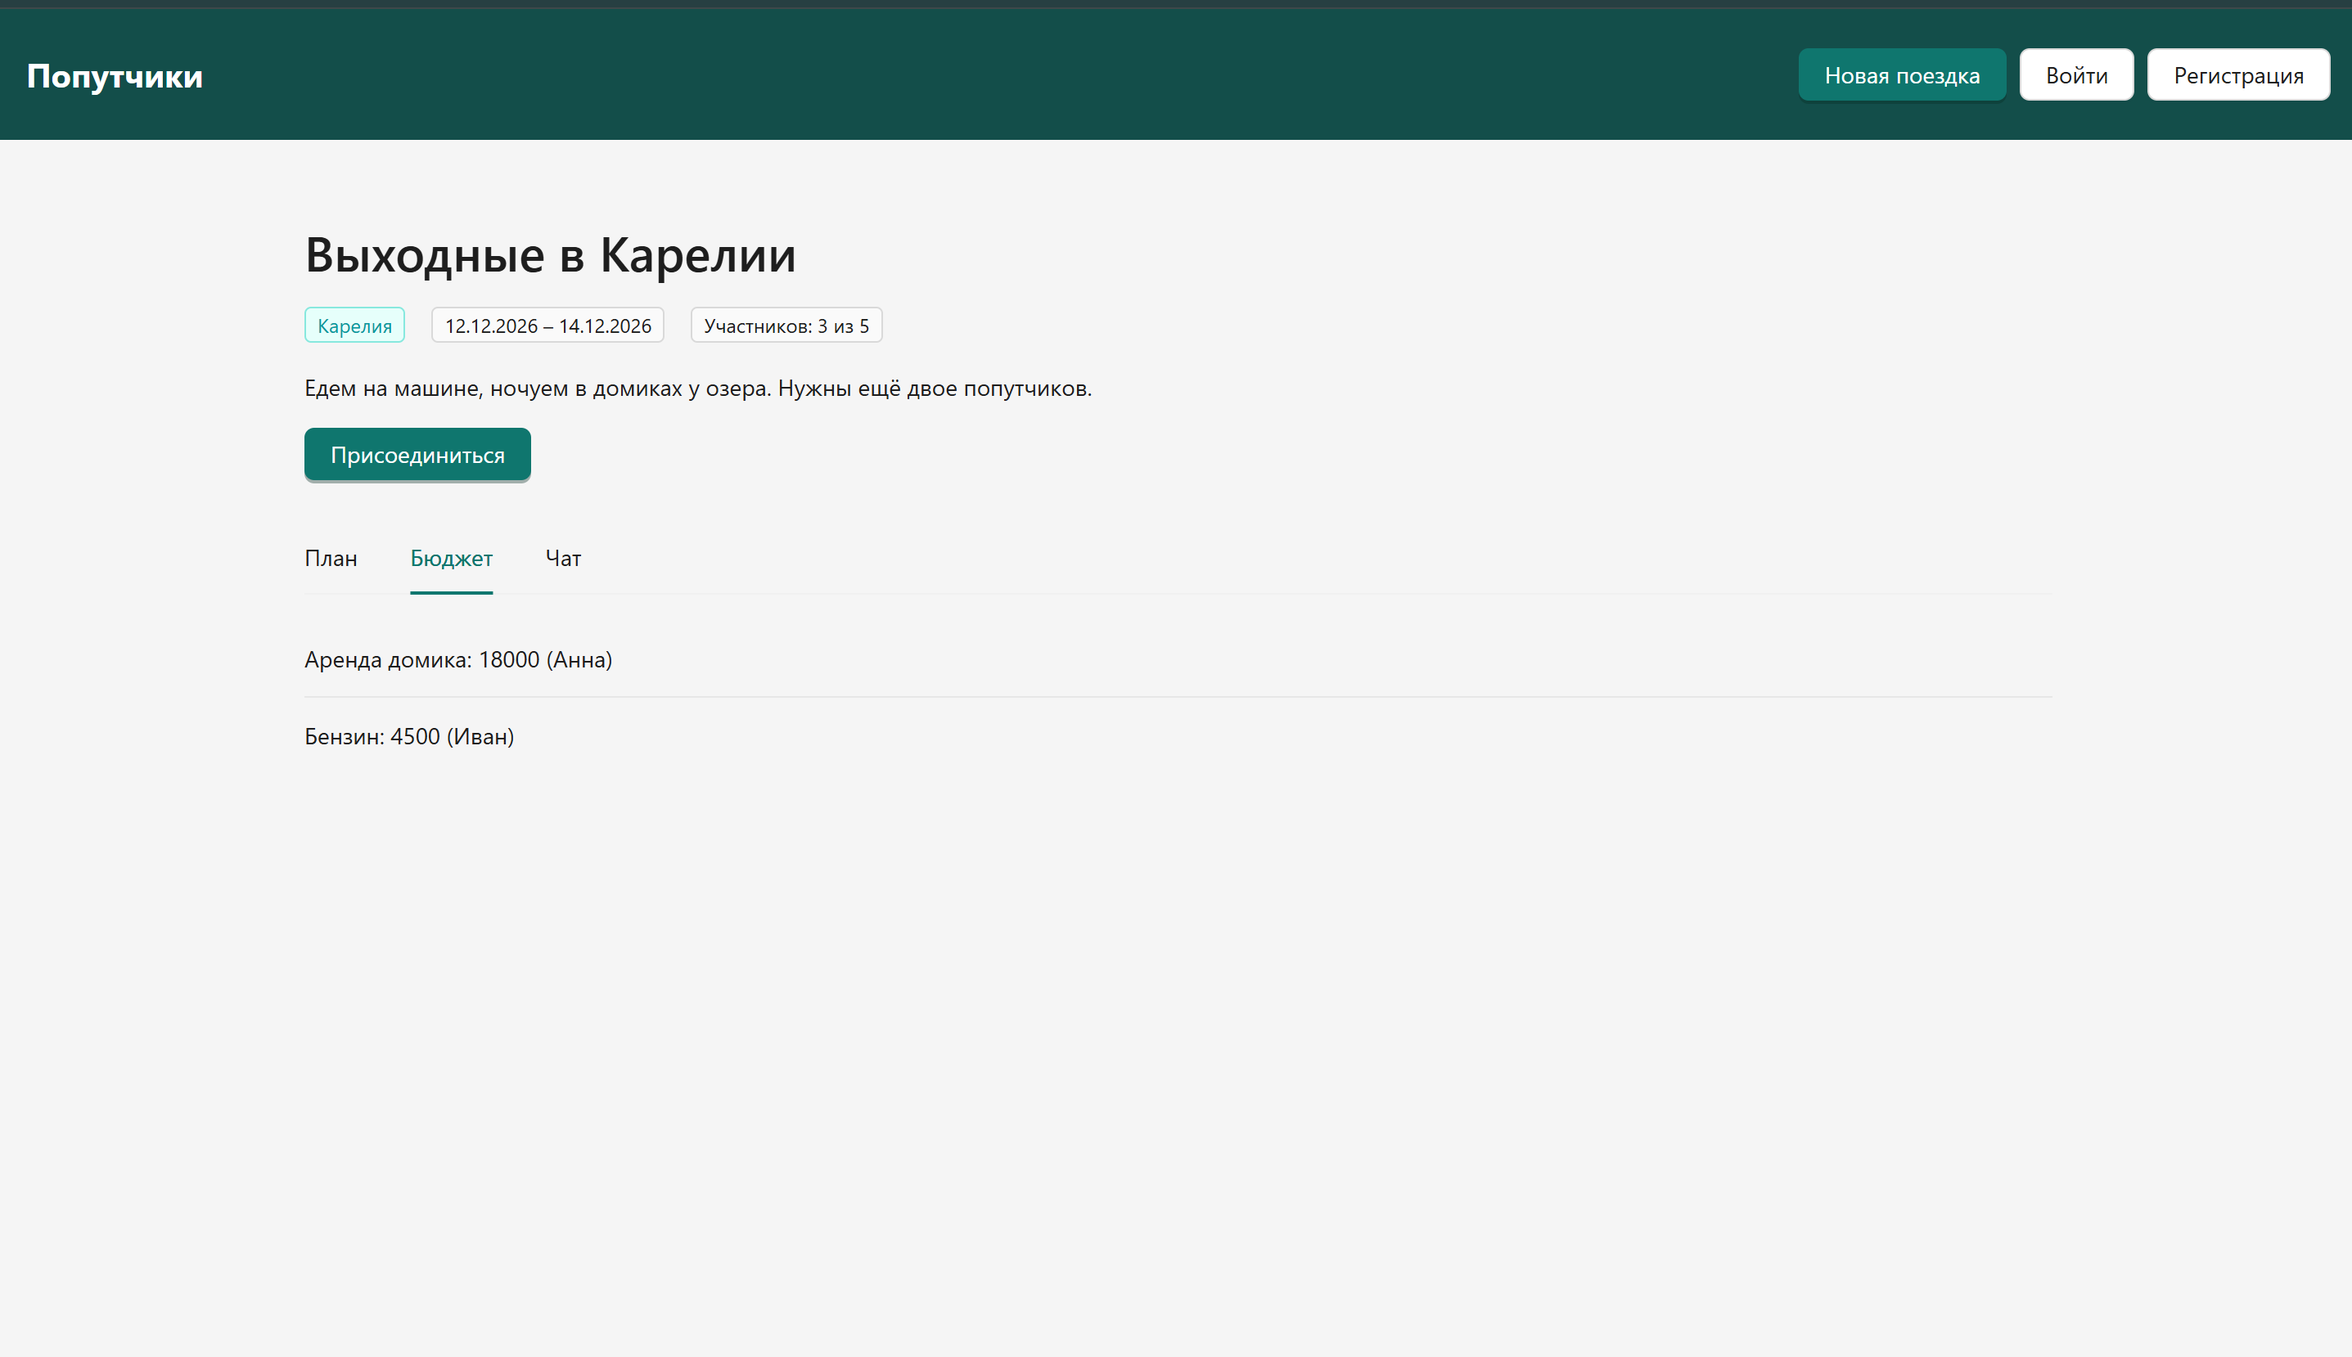
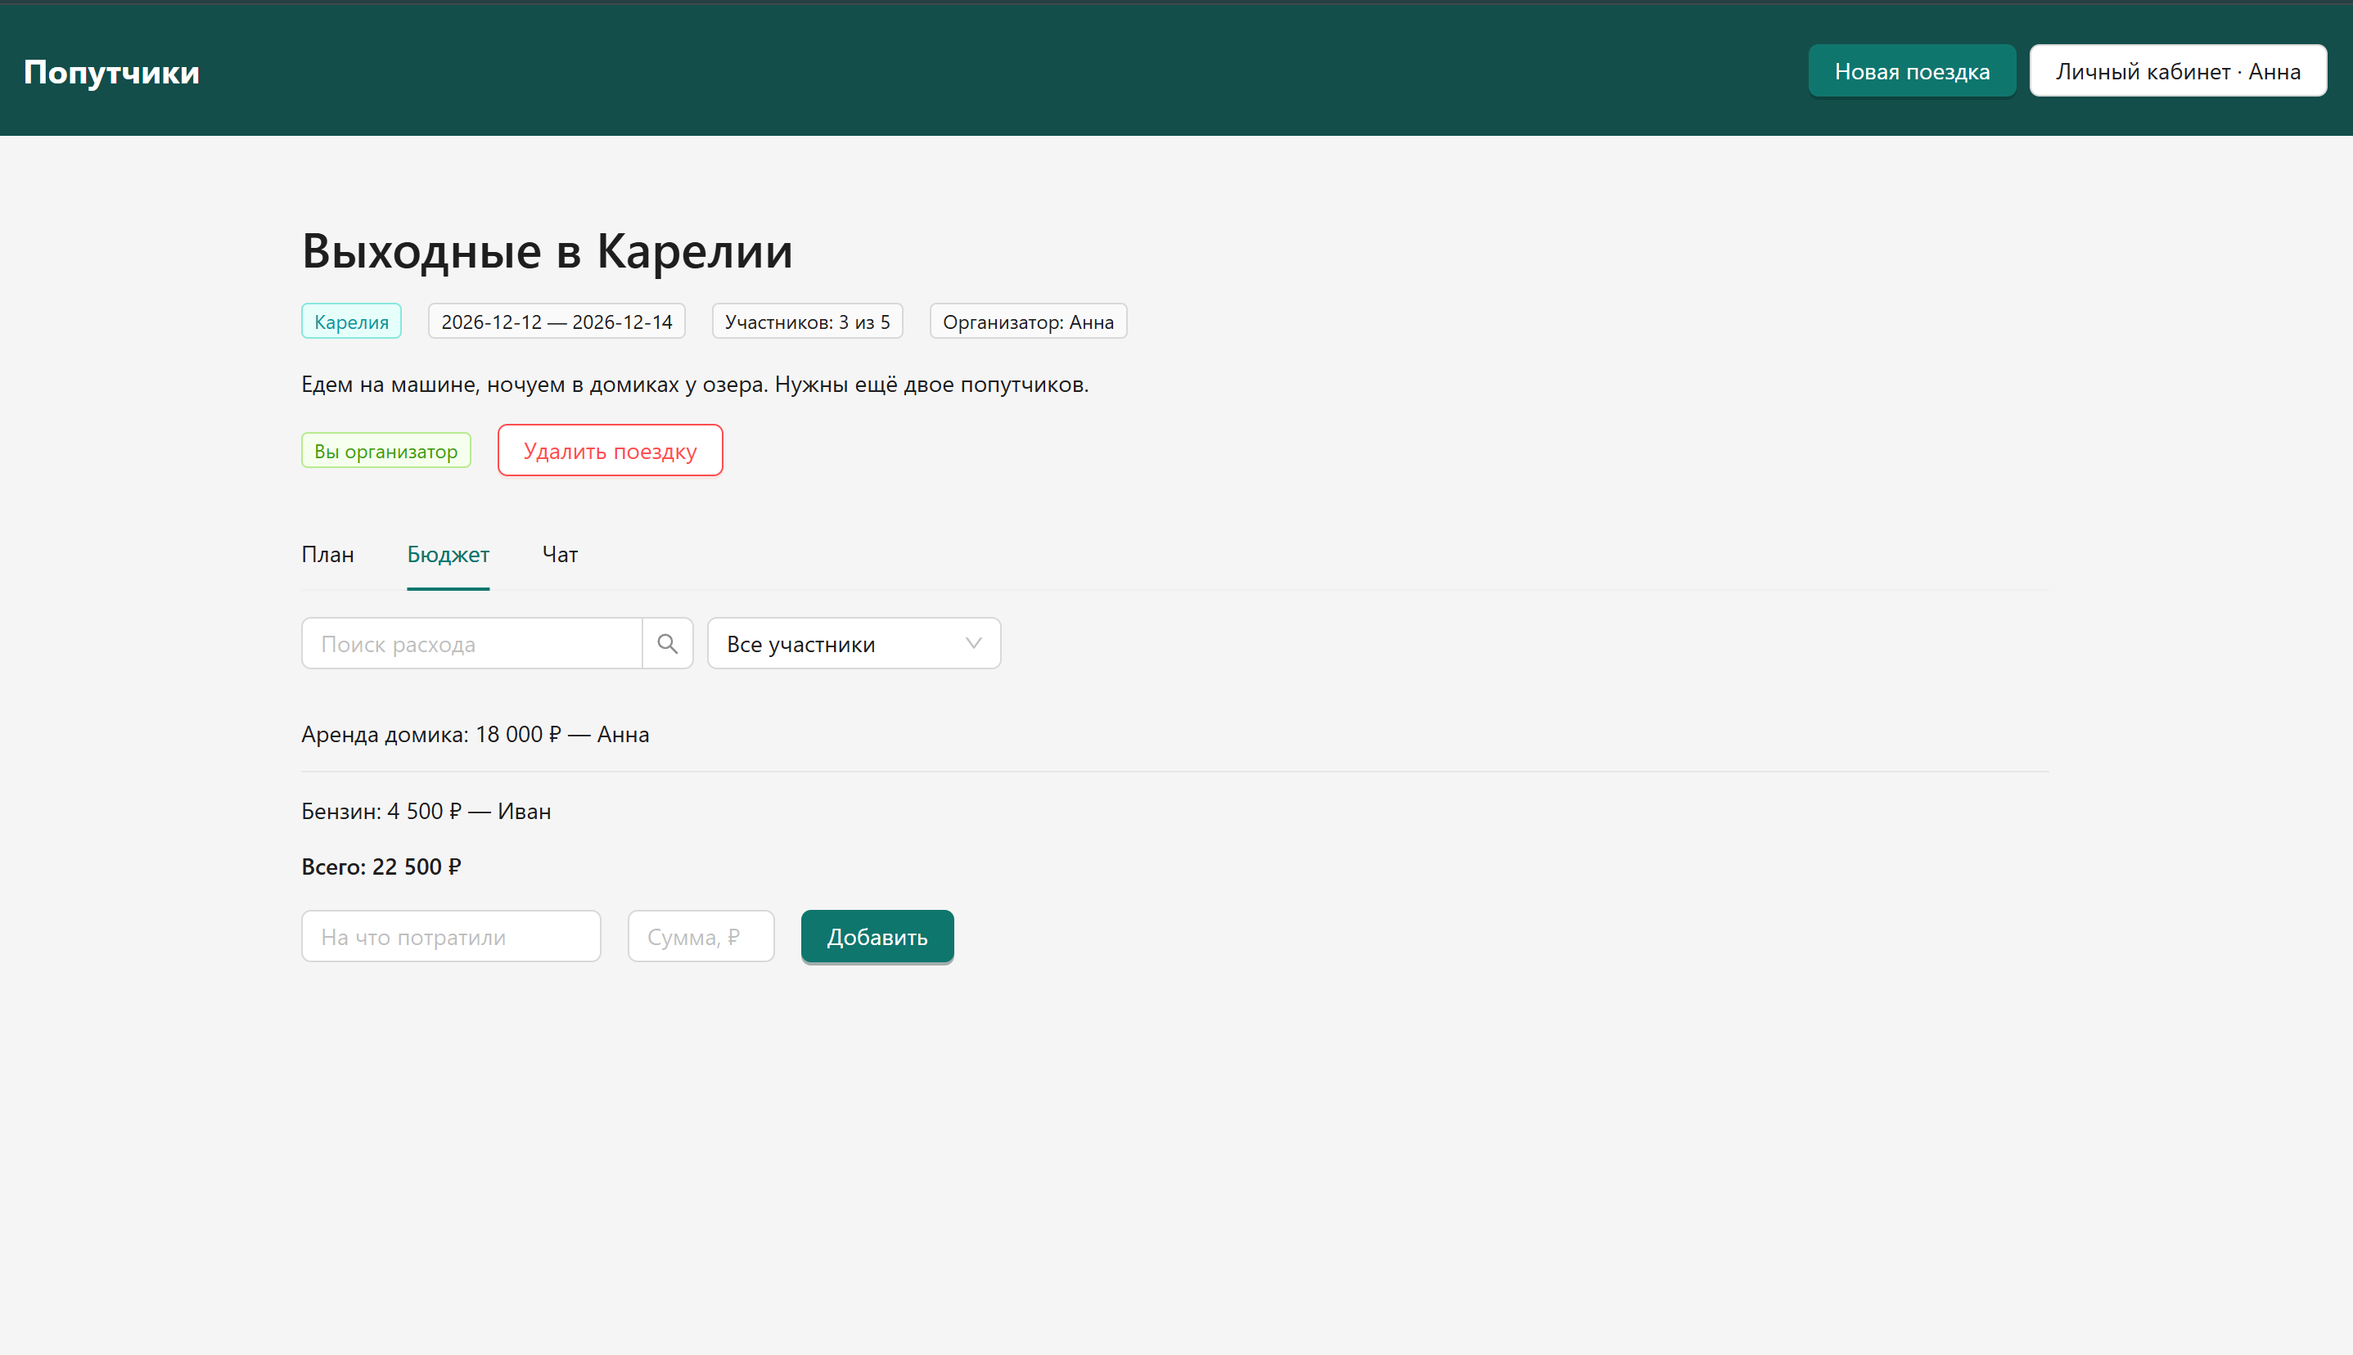
Добавлены фильтры и управление поездками

diff --git a/frontend/src/pages/TripPage.tsx b/frontend/src/pages/TripPage.tsx
@@ -1,77 +1,135 @@
-import { Button, Input, List, Space, Tabs, Tag, Typography } from 'antd'
-import { useParams } from 'react-router-dom'
-import { expenses, messages, plan, trips } from '../shared/demoData'
+import { useState } from 'react'
+import { Alert, Button, DatePicker, Empty, Form, Input, InputNumber, List, message, Popconfirm, Select, Space, Tabs, Tag, Typography } from 'antd'
+import { useNavigate, useParams } from 'react-router-dom'
+import { useTrips } from '@/app/TripsContext'
+import type { Trip } from '@/entities/trip/model'
+
+type PlanValues = { day: import('dayjs').Dayjs; title: string; note?: string }
+type ExpenseValues = { title: string; amount: number }
 
 export default function TripPage() {
   const { id } = useParams()
-  const trip = trips.find((t) => t.id === Number(id))
+  const { trips, profile, updateTrip, deleteTrip } = useTrips()
+  const navigate = useNavigate()
+  const [chatText, setChatText] = useState('')
+  const [planQuery, setPlanQuery] = useState('')
+  const [planDay, setPlanDay] = useState('all')
+  const [expenseQuery, setExpenseQuery] = useState('')
+  const [payer, setPayer] = useState('all')
+  const [chatQuery, setChatQuery] = useState('')
+  const trip = trips.find((item) => item.id === Number(id))
 
-  if (!trip) return <Typography.Title level={3}>Поездка не найдена</Typography.Title>
+  if (!trip) return <Alert type="error" showIcon message="Поездка не найдена" />
+
+  const change = (update: (current: Trip) => Trip) => updateTrip(trip.id, update)
+  const isOwner = trip.owner === profile.name
+  const isJoined = trip.joined || isOwner
+  const join = () => {
+    if (isJoined) return
+    if (trip.members >= trip.maxPeople) return message.error('Свободных мест нет')
+    change((item) => ({ ...item, members: item.members + 1, joined: true }))
+  }
+  const leave = () => {
+    if (!trip.joined || isOwner) return
+    change((item) => ({ ...item, members: Math.max(0, item.members - 1), joined: false }))
+    message.success('Вы вышли из поездки')
+  }
+  const addPlan = (values: PlanValues) => change((item) => ({ ...item, plan: [...item.plan, {
+    id: Date.now(), day: values.day.format('YYYY-MM-DD'), title: values.title.trim(), note: values.note?.trim() || '',
+  }] }))
+  const addExpense = (values: ExpenseValues) => change((item) => ({ ...item, expenses: [...item.expenses, {
+    id: Date.now(), title: values.title.trim(), amount: values.amount, who: profile.name,
+  }] }))
+  const sendMessage = () => {
+    if (!chatText.trim()) return
+    change((item) => ({ ...item, messages: [...item.messages, { id: Date.now(), who: profile.name, text: chatText.trim() }] }))
+    setChatText('')
+  }
+  const visiblePlan = trip.plan.filter((item) =>
+    `${item.title} ${item.note}`.toLowerCase().includes(planQuery.toLowerCase()) &&
+    (planDay === 'all' || item.day === planDay))
+  const payers = Array.from(new Set(trip.expenses.map((item) => item.who)))
+  const visibleExpenses = trip.expenses.filter((item) =>
+    item.title.toLowerCase().includes(expenseQuery.toLowerCase()) &&
+    (payer === 'all' || item.who === payer))
+  const visibleMessages = trip.messages.filter((item) =>
+    `${item.who} ${item.text}`.toLowerCase().includes(chatQuery.toLowerCase()))
 
   return (
-    <>
+    <div className="fade-in">
       <Typography.Title level={2}>{trip.title}</Typography.Title>
       <Space wrap style={{ marginBottom: 16 }}>
         <Tag color="cyan">{trip.destination}</Tag>
-        <Tag>{trip.dates}</Tag>
-        <Tag>
-          Участников: {trip.members} из {trip.maxPeople}
-        </Tag>
+        <Tag>{trip.startDate} — {trip.endDate}</Tag>
+        <Tag>Участников: {trip.members} из {trip.maxPeople}</Tag>
+        <Tag>Организатор: {trip.owner}</Tag>
       </Space>
       <Typography.Paragraph>{trip.description}</Typography.Paragraph>
-      <Button type="primary" style={{ marginBottom: 24 }}>
-        Присоединиться
-      </Button>
+      <Space style={{ marginBottom: 24 }}>
+        {isOwner ? <>
+          <Tag color="green">Вы организатор</Tag>
+          <Popconfirm title="Удалить поездку?" description="План, расходы и сообщения этой поездки тоже будут удалены."
+            okText="Удалить" cancelText="Отмена" okButtonProps={{ danger: true }}
+            onConfirm={() => { deleteTrip(trip.id); navigate('/') }}>
+            <Button danger>Удалить поездку</Button>
+          </Popconfirm>
+        </> : isJoined ? <Button danger onClick={leave}>Выйти из поездки</Button>
+          : <Button type="primary" onClick={join}>Присоединиться</Button>}
+      </Space>
 
-      <Tabs
-        items={[
-          {
-            key: 'plan',
-            label: 'План',
-            children: (
-              <List
-                dataSource={plan}
-                renderItem={(p) => (
-                  <List.Item>
-                    <List.Item.Meta title={`${p.day}: ${p.title}`} description={p.note} />
-                  </List.Item>
-                )}
-              />
-            ),
-          },
-          {
-            key: 'budget',
-            label: 'Бюджет',
-            children: (
-              <List
-                dataSource={expenses}
-                renderItem={(e) => (
-                  <List.Item>
-                    {e.title}: {e.amount} ({e.who})
-                  </List.Item>
-                )}
-              />
-            ),
-          },
-          {
-            key: 'chat',
-            label: 'Чат',
-            children: (
-              <>
-                <List
-                  dataSource={messages}
-                  renderItem={(m) => (
-                    <List.Item>
-                      <b>{m.who}:</b>&nbsp;{m.text}
-                    </List.Item>
-                  )}
-                />
-                <Input placeholder="Сообщение" />
-              </>
-            ),
-          },
-        ]}
-      />
-    </>
+      <Tabs items={[
+        { key: 'plan', label: 'План', children: <>
+          <Space wrap style={{ marginBottom: 16 }}>
+            <Input.Search allowClear placeholder="Поиск в плане" value={planQuery}
+              onChange={(event) => setPlanQuery(event.target.value)} style={{ width: 240 }} />
+            <Select value={planDay} onChange={setPlanDay} style={{ width: 180 }} options={[
+              { value: 'all', label: 'Все дни' }, ...Array.from(new Set(trip.plan.map((item) => item.day)))
+                .map((day) => ({ value: day, label: day })),
+            ]} />
+          </Space>
+          {visiblePlan.length ? <List dataSource={visiblePlan} renderItem={(item) => <List.Item>
+            <List.Item.Meta title={`${item.day}: ${item.title}`} description={item.note} />
+          </List.Item>} /> : <Empty description={trip.plan.length ? 'По фильтрам ничего не найдено' : 'План пока пуст'} />}
+          {isJoined && <Form layout="inline" onFinish={addPlan} style={{ marginTop: 16 }}>
+            <Form.Item name="day" rules={[{ required: true, message: 'Выберите день' }]}><DatePicker placeholder="День" /></Form.Item>
+            <Form.Item name="title" rules={[{ required: true, min: 2, message: 'Введите название (от 2 символов)' }]}><Input placeholder="Что делаем?" /></Form.Item>
+            <Form.Item name="note"><Input placeholder="Примечание" /></Form.Item>
+            <Button htmlType="submit" type="primary">Добавить</Button>
+          </Form>}
+        </> },
+        { key: 'budget', label: 'Бюджет', children: <>
+          <Space wrap style={{ marginBottom: 16 }}>
+            <Input.Search allowClear placeholder="Поиск расхода" value={expenseQuery}
+              onChange={(event) => setExpenseQuery(event.target.value)} style={{ width: 240 }} />
+            <Select value={payer} onChange={setPayer} style={{ width: 180 }} options={[
+              { value: 'all', label: 'Все участники' }, ...payers.map((name) => ({ value: name, label: name })),
+            ]} />
+          </Space>
+          {visibleExpenses.length ? <>
+            <List dataSource={visibleExpenses} renderItem={(item) => <List.Item>
+              {item.title}: {item.amount.toLocaleString('ru-RU')} ₽ — {item.who}
+            </List.Item>} />
+            <Typography.Text strong>Всего: {trip.expenses.reduce((sum, item) => sum + item.amount, 0).toLocaleString('ru-RU')} ₽</Typography.Text>
+          </> : <Empty description={trip.expenses.length ? 'По фильтрам ничего не найдено' : 'Расходов пока нет'} />}
+          {isJoined && <Form layout="inline" onFinish={addExpense} style={{ marginTop: 16 }}>
+            <Form.Item name="title" rules={[{ required: true, min: 2, message: 'Введите название траты' }]}><Input placeholder="На что потратили" /></Form.Item>
+            <Form.Item name="amount" rules={[{ required: true, message: 'Введите сумму' }]}><InputNumber min={1} placeholder="Сумма, ₽" /></Form.Item>
+            <Button htmlType="submit" type="primary">Добавить</Button>
+          </Form>}
+        </> },
+        { key: 'chat', label: 'Чат', children: <>
+          <Input.Search allowClear placeholder="Поиск по автору или сообщению" value={chatQuery}
+            onChange={(event) => setChatQuery(event.target.value)} style={{ maxWidth: 360, marginBottom: 16 }} />
+          {visibleMessages.length ? <List dataSource={visibleMessages} renderItem={(item) => <List.Item>
+            <b>{item.who}:</b>&nbsp;{item.text}
+          </List.Item>} /> : <Empty description={trip.messages.length ? 'По фильтрам ничего не найдено' : 'Сообщений пока нет'} />}
+          {isJoined && <Space.Compact style={{ width: '100%', marginTop: 12 }}>
+            <Input value={chatText} maxLength={500} placeholder="Сообщение" onChange={(event) => setChatText(event.target.value)}
+              onPressEnter={sendMessage} />
+            <Button type="primary" onClick={sendMessage}>Отправить</Button>
+          </Space.Compact>}
+        </> },
+      ]} />
+    </div>
   )
 }

diff --git a/frontend/src/pages/TripFormPage.tsx b/frontend/src/pages/TripFormPage.tsx
@@ -1,31 +1,42 @@
+import type { Dayjs } from 'dayjs'
 import { Button, Card, DatePicker, Form, Input, InputNumber, Typography } from 'antd'
 import { useNavigate } from 'react-router-dom'
+import { useTrips } from '@/app/TripsContext'
+
+type FormValues = { title: string; destination: string; dates: [Dayjs, Dayjs]; max_people: number; description?: string }
 
 export default function TripFormPage() {
   const navigate = useNavigate()
+  const { addTrip, profile } = useTrips()
+  const save = (values: FormValues) => {
+    const id = addTrip({
+      title: values.title.trim(), destination: values.destination.trim(),
+      startDate: values.dates[0].format('YYYY-MM-DD'), endDate: values.dates[1].format('YYYY-MM-DD'),
+      maxPeople: values.max_people, description: values.description?.trim() || '', owner: profile.name,
+    })
+    navigate(`/trips/${id}`)
+  }
 
   return (
-    <Card style={{ maxWidth: 600, margin: '0 auto' }}>
+    <Card className="fade-in" style={{ maxWidth: 600, margin: '0 auto' }}>
       <Typography.Title level={3}>Новая поездка</Typography.Title>
-      <Form layout="vertical" initialValues={{ max_people: 4 }} onFinish={() => navigate('/')}>
-        <Form.Item name="title" label="Название">
-          <Input />
+      <Form layout="vertical" initialValues={{ max_people: 4 }} onFinish={save}>
+        <Form.Item name="title" label="Название" rules={[{ required: true, message: 'Введите название' }, { min: 3, message: 'Минимум 3 символа' }]}>
+          <Input maxLength={100} />
         </Form.Item>
-        <Form.Item name="destination" label="Куда едем">
-          <Input />
+        <Form.Item name="destination" label="Куда едем" rules={[{ required: true, message: 'Укажите направление' }, { min: 2, message: 'Минимум 2 символа' }]}>
+          <Input maxLength={100} />
         </Form.Item>
-        <Form.Item name="dates" label="Даты поездки">
+        <Form.Item name="dates" label="Даты поездки" rules={[{ required: true, message: 'Выберите даты поездки' }]}>
           <DatePicker.RangePicker style={{ width: '100%' }} />
         </Form.Item>
-        <Form.Item name="max_people" label="Сколько человек нужно">
-          <InputNumber min={2} max={50} />
+        <Form.Item name="max_people" label="Сколько человек нужно" rules={[{ required: true, message: 'Укажите число участников' }]}>
+          <InputNumber min={2} max={50} style={{ width: '100%' }} />
         </Form.Item>
-        <Form.Item name="description" label="Описание">
+        <Form.Item name="description" label="Описание" rules={[{ max: 1000, message: 'Максимум 1000 символов' }]}>
           <Input.TextArea rows={4} />
         </Form.Item>
-        <Button type="primary" htmlType="submit">
-          Сохранить
-        </Button>
+        <Button type="primary" htmlType="submit">Сохранить</Button>
       </Form>
     </Card>
   )

diff --git a/frontend/src/index.css b/frontend/src/index.css
@@ -27,3 +27,12 @@ body {
   margin: 0 auto;
   padding: 24px 16px;
 }
+
+.fade-in {
+  animation: fade-in 180ms ease-out;
+}
+
+@keyframes fade-in {
+  from { opacity: 0; transform: translateY(6px); }
+  to { opacity: 1; transform: translateY(0); }
+}
